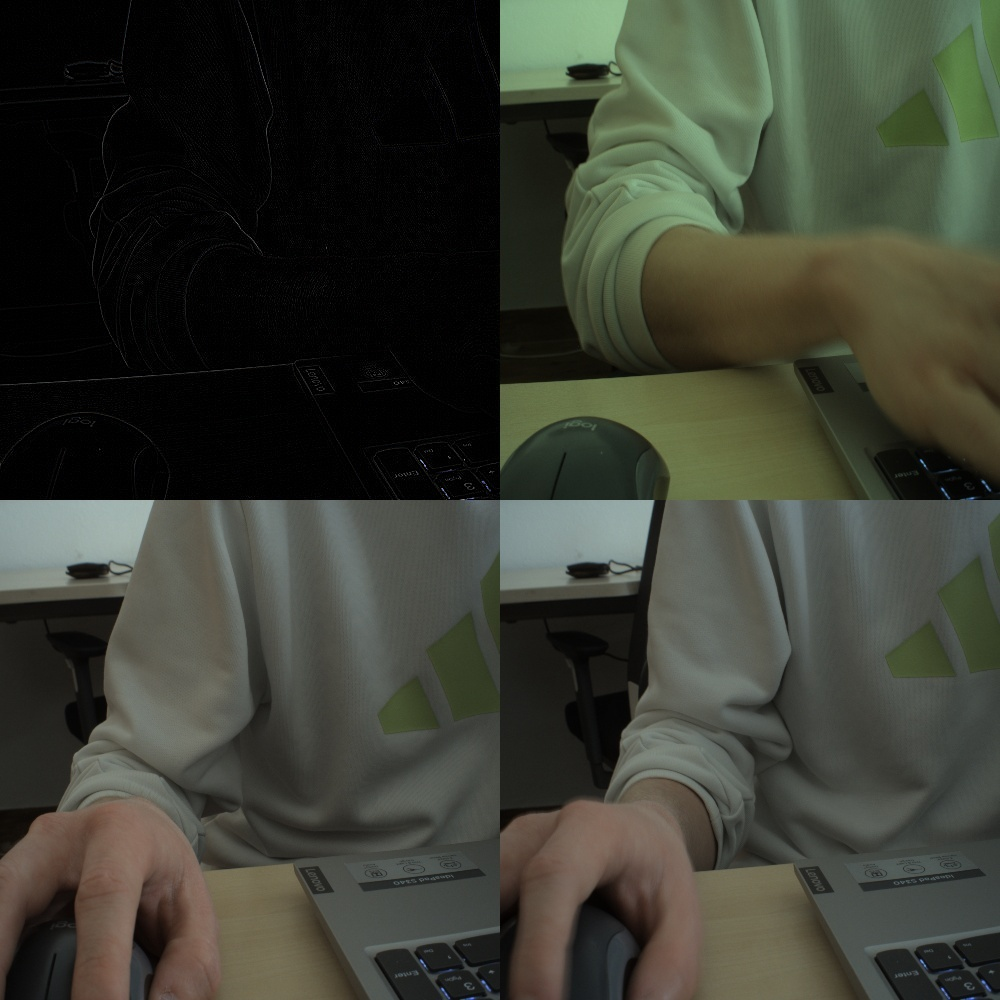
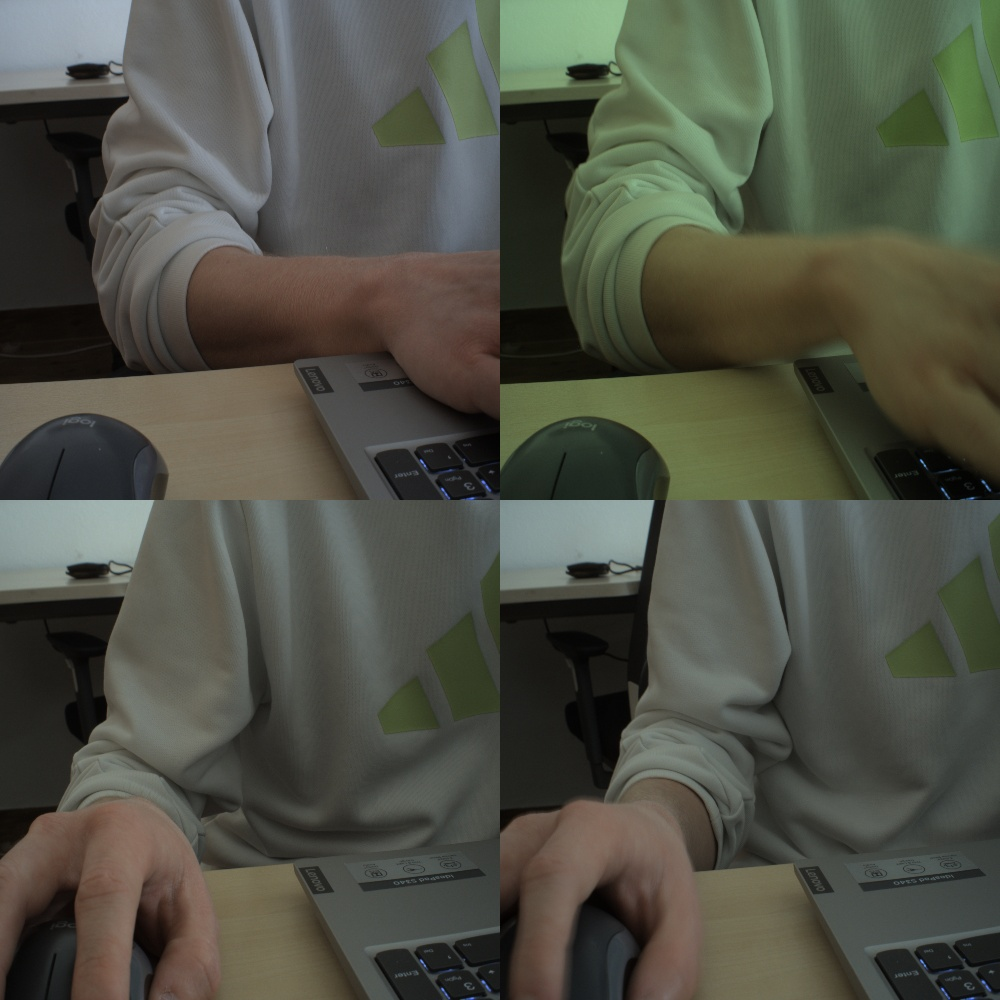
Final version everything works

Changed region(s): [[0.0, 0.0, 0.527, 0.527]]

diff --git a/uloha4.py b/uloha4.py
@@ -2,39 +2,26 @@ import cv2
 import os
 import numpy as np
 
-# Priečinok a cesta k mozaike
 mosaicFolder = "mozaika"
 mosaic_path = os.path.join(mosaicFolder, "mozaika1.jpg")
 
-# Načítanie existujúcej mozaiky
 mosaic = cv2.imread(mosaic_path)
 
-if mosaic is None:
-    print(f"Chyba: Súbor {mosaic_path} neexistuje!")
-    exit(1)
+img_height = 500
+img_width = 500
 
-# Predpokladaná veľkosť jednotlivých obrázkov v mozaike
-img_height = mosaic.shape[0] // 2  # Polovica výšky mozaiky
-img_width = mosaic.shape[1] // 2   # Polovica šírky mozaiky
+second_image = mosaic[0:500, 500:1000]
+rotated_image = np.zeros((img_height, img_width, 3), dtype=np.uint8)  
 
-# Otočenie druhého obrázka (pravý horný) o 90° pomocou `for` cyklu
-second_image = mosaic[0:img_height, img_width:img_width * 2]  # Vystrihnutie druhého obrázka
-rotated_image = np.zeros((img_height, img_width, 3), dtype=np.uint8)  # Zachovanie správnych rozmerov!
-
-# Transponovanie pixelov manuálne (otočenie o 90° v smere hodinových ručičiek)
 for i in range(img_height):
     for j in range(img_width):
-        rotated_image[j, img_width - 1 - i] = second_image[i, j]  # Správne otočenie pixelov
+        rotated_image[j, img_width - 1 - i] = second_image[i, j]  
 
-# Nahradenie druhého obrázka otočenou verziou
-mosaic[0:img_height, img_width:img_width * 2] = rotated_image
+mosaic[0:500, 500:1000] = rotated_image
 
-# Uloženie mozaiky
-mosaic_result_path = os.path.join(mosaicFolder, "mozaika_upravena.jpg")
+mosaic_result_path = os.path.join(mosaicFolder, "mozaikaOtocenie.jpg")
 cv2.imwrite(mosaic_result_path, mosaic)
-print(f"Upravená mozaika uložená ako {mosaic_result_path}")
 
-# Zobrazenie mozaiky
 cv2.imshow("Mozaika s otocenym druhym obrazkom", mosaic)
 cv2.waitKey(0)
 cv2.destroyAllWindows()

diff --git a/uloha6.py b/uloha6.py
@@ -2,44 +2,14 @@ import cv2
 import os
 import numpy as np
 
-# Priečinok a cesta k mozaike
 mosaicFolder = "mozaika"
-mosaic_path = os.path.join(mosaicFolder, "mozaika1.jpg")
+mosaic_path = os.path.join(mosaicFolder, "mozaikaCervena.jpg")
 
-# Načítanie existujúcej mozaiky
 mosaic = cv2.imread(mosaic_path)
 
-if mosaic is None:
-    print(f"Chyba: Súbor {mosaic_path} neexistuje!")
-    exit(1)
-
-# Výpis základných informácií o obrázku
 print(f"rozmery: {mosaic.shape[0]} x {mosaic.shape[1]} px")
 print(f"pocet kanalov: {mosaic.shape[2]}")
 print(f"datovy typ: {mosaic.dtype}")
 print(f"velkost v pamati: {mosaic.size * mosaic.itemsize} B ({round(mosaic.size * mosaic.itemsize / 1024, 2)} KB)")
-
-# Predpokladaná veľkosť jednotlivých obrázkov v mozaike
-img_height = mosaic.shape[0] // 2  # Polovica výšky mozaiky
-img_width = mosaic.shape[1] // 2   # Polovica šírky mozaiky
-
-# Vystrihnutie tretieho obrázka (ľavý dolný kvadrant)
-third_image = mosaic[img_height:img_height * 2, 0:img_width].copy()
-
-# Zachovanie len červeného kanála (R)
-only_red = np.zeros_like(third_image)
-only_red[:, :, 2] = third_image[:, :, 2]  # Kopírujeme len červený kanál
-
-# Nahradenie tretieho obrázka v mozaike upravenou verziou
-mosaic[img_height:img_height * 2, 0:img_width] = only_red
-
-# Uloženie mozaiky
-mosaic_result_path = os.path.join(mosaicFolder, "mozaika_upravena.jpg")
-cv2.imwrite(mosaic_result_path, mosaic)
-
-# Zobrazenie mozaiky
-cv2.imshow("Mozaika s upravenym tretim obrazkom", mosaic)
-cv2.waitKey(0)
-cv2.destroyAllWindows()
 
 print("Done.")

diff --git a/uloha5.py b/uloha5.py
@@ -2,37 +2,21 @@ import cv2
 import os
 import numpy as np
 
-# Priečinok a cesta k mozaike
 mosaicFolder = "mozaika"
 mosaic_path = os.path.join(mosaicFolder, "mozaika1.jpg")
 
-# Načítanie existujúcej mozaiky
 mosaic = cv2.imread(mosaic_path)
 
-if mosaic is None:
-    print(f"Chyba: Súbor {mosaic_path} neexistuje!")
-    exit(1)
+third_image = mosaic[500:1000, 0:500] 
 
-# Predpokladaná veľkosť jednotlivých obrázkov v mozaike
-img_height = mosaic.shape[0] // 2  # Polovica výšky mozaiky
-img_width = mosaic.shape[1] // 2   # Polovica šírky mozaiky
-
-# Vystrihnutie tretieho obrázka (ľavý dolný kvadrant)
-third_image = mosaic[img_height:img_height * 2, 0:img_width].copy()
-
-# Zachovanie len červeného kanála (R)
 only_red = np.zeros_like(third_image)
-only_red[:, :, 2] = third_image[:, :, 2]  # Kopírujeme len červený kanál
+only_red[:, :, 2] = third_image[:, :, 2] 
 
-# Nahradenie tretieho obrázka v mozaike upravenou verziou
-mosaic[img_height:img_height * 2, 0:img_width] = only_red
+mosaic[500:1000, 0:500] = only_red
 
-# Uloženie mozaiky
-mosaic_result_path = os.path.join(mosaicFolder, "mozaika_upravena.jpg")
+mosaic_result_path = os.path.join(mosaicFolder, "mozaikaCervena.jpg") 
 cv2.imwrite(mosaic_result_path, mosaic)
-print(f"Upravená mozaika uložená ako {mosaic_result_path}")
 
-# Zobrazenie mozaiky
 cv2.imshow("Mozaika s upravenym tretim obrazkom", mosaic)
 cv2.waitKey(0)
 cv2.destroyAllWindows()

diff --git a/uloha3.py b/uloha3.py
@@ -2,34 +2,23 @@ import cv2
 import os
 import numpy as np
 
-# Priečinky
 mosaicFolder = "mozaika"
 mosaic_path = os.path.join(mosaicFolder, "mozaika1.jpg")
 
-# Načítanie existujúcej mozaiky
 mosaic = cv2.imread(mosaic_path)
 
-if mosaic is None:
-    print(f"Chyba: Súbor {mosaic_path} neexistuje!")
-    exit(1)
-
-# Kernel maska (napríklad pre rozostrenie)
 kernel = np.array([[0, -1, 0],
                    [-1, 4, -1],
-                   [0, -1, 0]])
+                   [0, -1, 0]]) 
 
-# Aplikácia kernel masky na prvý obrázok (ľavý horný)
-first_image = mosaic[0:500, 0:500]  # Predpokladáme, že obrázok má veľkosť 600x400
+first_image = mosaic[0:500, 0:500]  
 first_image_filtered = cv2.filter2D(first_image, -1, kernel)
 
-# Nahradenie prvého obrázka vo mozaike filtrovaným obrázkom
 mosaic[0:500, 0:500] = first_image_filtered
 
-# Uloženie mozaiky
-cv2.imwrite(mosaic_path, mosaic)
-#print(f"Mozaika uložená ako {mosaic_path}")
+mosaic_kernel = os.path.join(mosaicFolder, "mozaikaKernel.jpg")
+cv2.imwrite(mosaic_kernel, mosaic)
 
-# Zobrazenie mozaiky
 cv2.imshow("Mozaika s aplikovanym kernelom", mosaic)
 cv2.waitKey(0)
 cv2.destroyAllWindows()

diff --git a/uloha2.py b/uloha2.py
@@ -2,11 +2,9 @@ import cv2
 import os
 import numpy as np
 
-#folder
 outputFolder = "photo"
 mosaicFolder = "mozaika"
 
-# Načítanie 4 obrázkov
 image_filenames = [f"snimka{i+1}.jpg" for i in range(4)]
 images = []
 
@@ -17,7 +15,7 @@ for filename in image_filenames:
         images.append(cv2.resize(img, (500, 500)))  
     else:
         print(f"Chyba: Súbor {filename} neexistuje!")
-        exit(1)  # Ukončí program s chybovým kódom
+        exit(1)  
         
 mosaic = np.vstack([np.hstack([images[0], images[1]]), np.hstack([images[2], images[3]])])
 mosaic_path = os.path.join(mosaicFolder, "mozaika1.jpg")

diff --git a/test.py b/test.py
@@ -1,0 +1,5 @@
+import numpy as np
+a = np.array([1, 2, 3])
+b = np.array([4, 5, 6])
+array = np.vstack((a,b))
+print(array)
